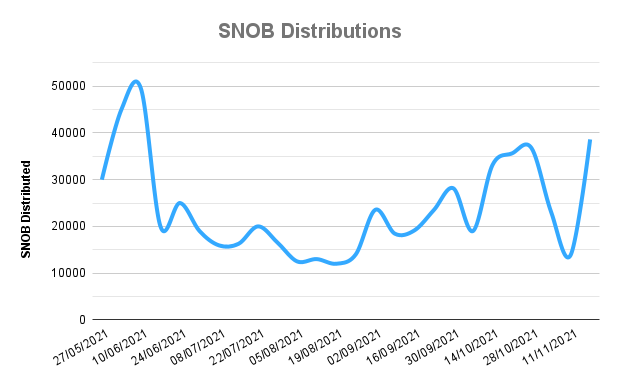
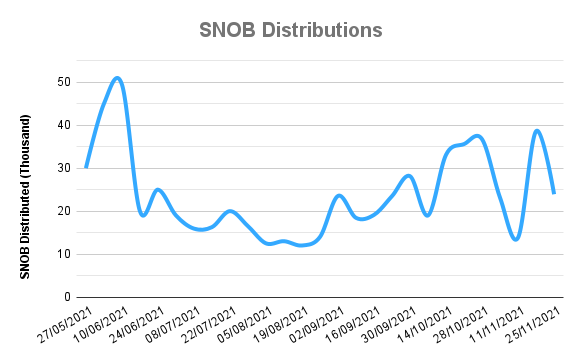
GitBook: [#500] Updated Distribution Charts

Changed region(s): [[0.031, 0.2151, 0.9604, 0.7989], [0.062, 0.8296, 0.9604, 0.9525], [0.3408, 0.0615, 0.6816, 0.1229]]

diff --git a/governance/xsnob/revenue-sharing.md b/governance/xsnob/revenue-sharing.md
@@ -22,7 +22,15 @@ These rewards can be claimed every week until your xSNOB balance reaches 0 (at t
 
 ## Historical Distributions
 
+{% tabs %}
+{% tab title="SNOB" %}
 ![](<../../.gitbook/assets/SNOB Distributions.png>)
+{% endtab %}
+
+{% tab title="AXIAL" %}
+![](<../../.gitbook/assets/AXIAL Distributions.png>)
+{% endtab %}
+{% endtabs %}
 
 ## Revenue Sharing Resources
 
